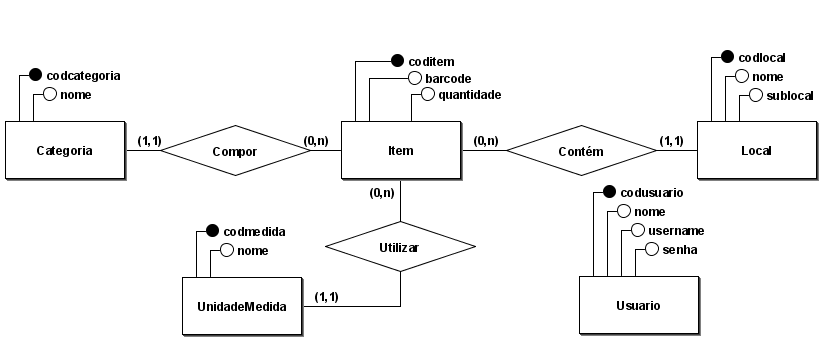
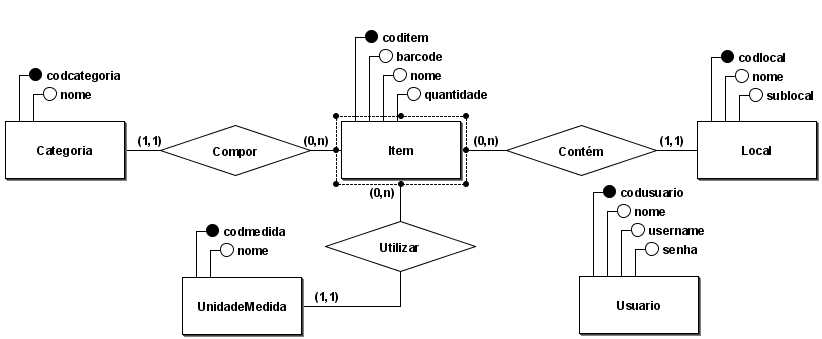
Atualizado Projeto SQL Versão 1.5

diff --git a/sql-project/2. Projeto Lógico/CED_Logico_v1.5.html b/sql-project/2. Projeto Lógico/CED_Logico_v1.5.html
@@ -1,0 +1,1 @@
+<html><head><meta content="text/html; charset=UTF-8" http-equiv="content-type"><style type="text/css">@import url('https://themes.googleusercontent.com/fonts/css?kit=EvVGZs3JkD0GjmXBFN0C48JTv_IB0YiTDXsleR_c24U');ol{margin:0;padding:0}table td,table th{padding:0}.c0{-webkit-text-decoration-skip:none;font-weight:300;text-decoration:underline;text-decoration-skip-ink:none;font-size:12pt;font-family:"Roboto"}.c7{padding-top:0pt;padding-bottom:0pt;line-height:1.15;orphans:2;widows:2;text-align:center}.c2{padding-top:0pt;padding-bottom:0pt;line-height:1.15;orphans:2;widows:2;text-align:justify}.c3{color:#000000;text-decoration:none;vertical-align:baseline;font-style:normal}.c4{background-color:#ffffff;max-width:451.4pt;padding:72pt 72pt 72pt 72pt}.c1{font-size:12pt;font-family:"Roboto";font-weight:300}.c6{font-weight:700;font-size:14pt;font-family:"Roboto"}.c5{height:11pt}.title{padding-top:0pt;color:#000000;font-size:26pt;padding-bottom:3pt;font-family:"Arial";line-height:1.15;page-break-after:avoid;orphans:2;widows:2;text-align:left}.subtitle{padding-top:0pt;color:#666666;font-size:15pt;padding-bottom:16pt;font-family:"Arial";line-height:1.15;page-break-after:avoid;orphans:2;widows:2;text-align:left}li{color:#000000;font-size:11pt;font-family:"Arial"}p{margin:0;color:#000000;font-size:11pt;font-family:"Arial"}h1{padding-top:20pt;color:#000000;font-size:20pt;padding-bottom:6pt;font-family:"Arial";line-height:1.15;page-break-after:avoid;orphans:2;widows:2;text-align:left}h2{padding-top:18pt;color:#000000;font-size:16pt;padding-bottom:6pt;font-family:"Arial";line-height:1.15;page-break-after:avoid;orphans:2;widows:2;text-align:left}h3{padding-top:16pt;color:#434343;font-size:14pt;padding-bottom:4pt;font-family:"Arial";line-height:1.15;page-break-after:avoid;orphans:2;widows:2;text-align:left}h4{padding-top:14pt;color:#666666;font-size:12pt;padding-bottom:4pt;font-family:"Arial";line-height:1.15;page-break-after:avoid;orphans:2;widows:2;text-align:left}h5{padding-top:12pt;color:#666666;font-size:11pt;padding-bottom:4pt;font-family:"Arial";line-height:1.15;page-break-after:avoid;orphans:2;widows:2;text-align:left}h6{padding-top:12pt;color:#666666;font-size:11pt;padding-bottom:4pt;font-family:"Arial";line-height:1.15;page-break-after:avoid;font-style:italic;orphans:2;widows:2;text-align:left}</style></head><body class="c4"><p class="c7"><span class="c3 c6">PROJETO L&Oacute;GICO DO BANCO DE DADOS</span></p><p class="c2 c5"><span class="c3 c1"></span></p><p class="c2"><span class="c1">usuario = { </span><span class="c0">codusuario</span><span class="c3 c1">, nome, username, senha }</span></p><p class="c2 c5"><span class="c3 c1"></span></p><p class="c2"><span class="c1">local = { </span><span class="c0">codlocal</span><span class="c3 c1">, nome, sublocal }</span></p><p class="c2 c5"><span class="c3 c1"></span></p><p class="c2"><span class="c1">categoria = { </span><span class="c0">codcategoria</span><span class="c3 c1">, nome }</span></p><p class="c2 c5"><span class="c3 c1"></span></p><p class="c2"><span class="c1">unidademedida = { </span><span class="c0">codmedida</span><span class="c3 c1">, nome }</span></p><p class="c2 c5"><span class="c3 c1"></span></p><p class="c2"><span class="c1">item = { </span><span class="c0">coditem</span><span class="c1 c3">, barcode, nome, quantidade, codlocal, codcategoria, codmedida }</span></p><p class="c2"><span class="c3 c1">&nbsp;&nbsp;&nbsp;&nbsp;&nbsp;&nbsp;&nbsp;&nbsp;codlocal - chave estrangeira referenciando local</span></p><p class="c2"><span class="c3 c1">&nbsp;&nbsp;&nbsp;&nbsp;&nbsp;&nbsp;&nbsp;&nbsp;codcategoria - chave estrangeira referenciando categoria</span></p><p class="c2"><span class="c3 c1">&nbsp;&nbsp;&nbsp;&nbsp;&nbsp;&nbsp;&nbsp;&nbsp;codmedida - chave estrangeira referenciando unidademedida</span></p></body></html>
